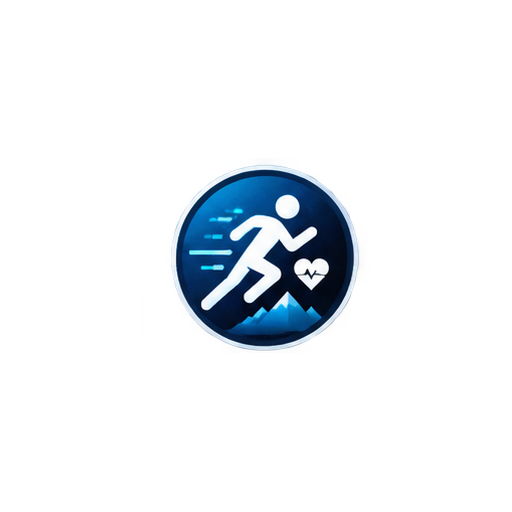
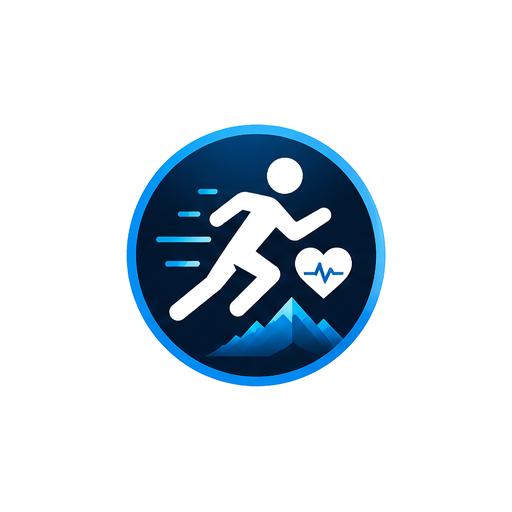
Release 2026.8.0-beta.5: branding polish

Changed region(s): [[0.25, 0.2188, 0.7812, 0.7812]]

diff --git a/README.md b/README.md
@@ -8,7 +8,7 @@
 
 [![Home Assistant](https://img.shields.io/badge/Home%20Assistant-Custom%20Integration-41BDF5?logo=homeassistant&logoColor=white)](https://www.home-assistant.io/)
 [![HACS](https://img.shields.io/badge/HACS-Custom%20Repository-41BDF5)](https://www.hacs.xyz/)
-[![Version](https://img.shields.io/badge/version-2026.8.0--beta.4-blue)](https://github.com/Chreece/HA-Fitness/releases)
+[![Version](https://img.shields.io/badge/version-2026.8.0--beta.5-blue)](https://github.com/Chreece/HA-Fitness/releases)
 [![License](https://img.shields.io/badge/status-public%20beta-orange)](#beta-status)
 
 </div>
@@ -836,7 +836,7 @@ YYYY.MM.release
 Prereleases append their stage:
 
 ```text
-2026.8.0-beta.4
+2026.8.0-beta.5
 ```
 
 The stable version for this release line will be:

diff --git a/CHANGELOG.md b/CHANGELOG.md
@@ -1,5 +1,15 @@
 # Changelog
 
+## 2026.8.0-beta.5
+
+### Branding polish
+
+- Rebuilt the Fitness logo with generous safe padding so GitHub does not crop it.
+- Rebuilt the README overview entirely with real rendered typography for sharp, readable text.
+- Rebuilt the GitHub social preview with real typography.
+- Refreshed Home Assistant/HACS icon assets from the new graphical mark.
+- Runtime integration behavior is unchanged from beta.4.
+
 ## 2026.8.0-beta.4
 
 ### Documentation and branding

diff --git a/RELEASE_NOTES_2026.8.0-beta.5.md b/RELEASE_NOTES_2026.8.0-beta.5.md
@@ -1,0 +1,9 @@
+# Fitness 2026.8.0-beta.5
+
+Branding/readability refinement release.
+
+- Fixed safe padding around the Fitness logo.
+- Rebuilt the README overview with crisp real typography.
+- Rebuilt the GitHub social preview.
+- Refreshed integration/HACS icons.
+- No runtime fitness logic changes from beta.4.
